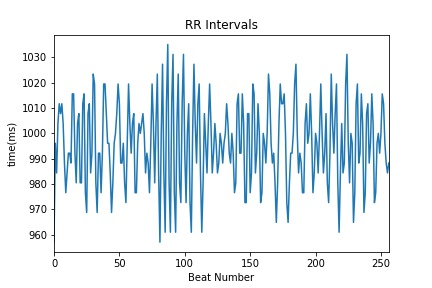
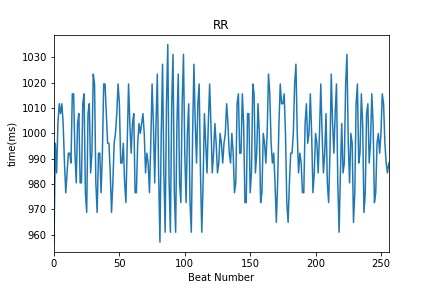
Exporting figures, including r waves astrix marked ones

diff --git a/QRS_Detector.py b/QRS_Detector.py
@@ -11,18 +11,18 @@ method to compute the threshold needed for detection.
 
 TIPS:
     - The sampling rate of this ECG signal is 256 Hz.
-    - N should be set approximately the same as the widest possible QRS
+    - N (win_size) should be set approximately the same as the widest possible QRS
 complex
-    - 
 """
 
-def qrs_detect(raw_signal, win_size=15):
+def qrs_detect(raw_signal, win_size=15, save=False,
+               enable_noise_filter=True, plotlimit=2000):
     """
 
     Parameters
     ----------
     raw_signal : TYPE
-        DESCRIPTION.
+
     win_size : TYPE
         the moving average window size N.
 
@@ -33,45 +33,55 @@ def qrs_detect(raw_signal, win_size=15):
 
     """
     raw_signal = np.array(raw_signal)
-    noise_filtered_signal = remove_noise(raw_signal)
+    if enable_noise_filter:
+        noise_filtered_signal = remove_noise(raw_signal)
+        
+        plot_before_after(raw_signal, noise_filtered_signal,
+                          title = "Before_After_Filter",
+                          save=save, limit=plotlimit)
     
-    if(len(raw_signal) == 2000) :
-        end_time = raw_signal.shape[0]-1/256
-        t = np.linspace(0, end_time , raw_signal.shape[0])
-        plt.subplot(211)
-        plt.plot(t, raw_signal)
-        plt.subplot(212)
-        plt.plot(t, noise_filtered_signal)
-        plt.savefig("Before_After_Filter.jpg")
-        plt.show()
-    
-    diff = differentiate(noise_filtered_signal)
-    plot(diff, title="Differentiated Signal")
-    
+        diff = differentiate(noise_filtered_signal)
+    else:
+        diff = differentiate(raw_signal)
+        
+    plot(diff, title="Differentiated Signal", limit=plotlimit)
+
     sqrd = square(diff)
-    plot(sqrd, title="Squared Signal")
+    plot(sqrd, title="Squared Signal", limit=plotlimit)
 
     smoothed = smooth(sqrd, win_size)
-    plot(smoothed, title="Smoothed Signal")
+    plot(smoothed, title="Smoothed Signal", limit=plotlimit)
 
     thresholded, threshold1 = threshold(smoothed)
-    plot(thresholded, title="Thresholded Signal")
+    plot(thresholded, title="Thresholded Signal", limit=plotlimit)
 
     rr_intervals = rr_define(thresholded)
-    #plot(rr_intervals, title="RR-Intervals", sampling_rate=1)
+    plot(rr_intervals*1000, title="RR", sampling_rate=1,
+         xlabel='Beat Number', ylabel='time(ms)',
+         limit=rr_intervals.shape[0])
     
-    if(len(raw_signal) > 10000) :
-        end_time = rr_intervals.shape[0]-1
-        t = np.linspace(0, end_time , rr_intervals.shape[0])
-        plt.plot(t, rr_intervals*1000)
-        plt.xlabel('Beat Number')
-        plt.ylabel('time(ms)')
-        plt.title("RR Intervals")
-        plt.xlim([0, end_time])
-        plt.savefig("RR.jpg")
-        plt.show()
-        
+    r_markers = create_markers(rr_define(thresholded[:plotlimit]))
+    final_figure_title = "DetectedR_" + str(win_size)
+    if not enable_noise_filter:
+        final_figure_title = "Unfiltered_" + str(win_size)
+    plot(thresholded, title = final_figure_title , sampling_rate=256,
+         xlabel="t", ylabel="x(t)", markers=r_markers, save=save,
+         limit=plotlimit)
+
     return rr_intervals
+
+def create_markers(rr_intervals, sampling_rate=256):
+
+    r_markers = rr_intervals*256
+    first_might_miss_beat = np.argmax(r_markers)
+    if first_might_miss_beat not in r_markers:
+        tmp = np.zeros((r_markers.shape[0]+1,))
+        tmp[0] = first_might_miss_beat
+        tmp[1:] = r_markers
+        r_markers = tmp
+    for i in range(1, len(r_markers)):
+        r_markers[i] = r_markers[i] + r_markers[i-1]
+    return r_markers
 
 def remove_noise(sig):
     filtered_signal = notch_filter(sig, 50.0)
@@ -110,17 +120,8 @@ def differentiate(sig):
         (-t_0 - (2*t_1) + (2*t_3) + (t_4))
     return diff_signal
 
-# def differentiate2(sig):
-#     diff_signal = np.zeros(sig.shape)
-#     for i in range(2, len(sig)-2):
-#         diff_signal[i] = (1/8) * (-sig[i-2] - 2*sig[i-1] + 2*sig[i+1] + sig[i+2])
-#     return diff_signal
-
-
 def square(sig):
     return np.square(sig)
-
-
 
 def smooth(sig, win_size=5):
     # smooth the squared signal using a moving average window
@@ -134,14 +135,14 @@ def smooth(sig, win_size=5):
         # print("sig %s ...... smoothed_signal %s" % (sig[i], smoothed_signal[i]))
     return smoothed_signal
 
-def threshold(sig):
-    threshold = np.average(sig)*1.5
+def threshold(sig, avg_mult=1.5):
+    threshold = np.average(sig)*avg_mult
     # threshold = np.max(sig)*0.7
     thresholded = sig.copy()
     thresholded[thresholded > threshold] = threshold
     return thresholded, threshold
 
-def rr_define(sig, sampling_rate=256):
+def rr_define(sig, sampling_rate=256, discard_less_than=100):
     # peak_indices = np.argwhere(sig == np.amax(sig))
     
     rr_intervals = []
@@ -150,7 +151,7 @@ def rr_define(sig, sampling_rate=256):
 
     for v in sig:
         if v == peak_value:
-            if current_interval <= 100:
+            if current_interval <= discard_less_than:
                 # print("SAME" + str(len(rr_intervals)))
                 current_interval += 1
                 continue
@@ -161,22 +162,56 @@ def rr_define(sig, sampling_rate=256):
     rr_intervals = np.array(rr_intervals)/sampling_rate
     return rr_intervals
 
-def plot(sig, title = "Plot of CT signal", sampling_rate = 256):
-    end_time = sig.shape[0]-1/sampling_rate
-    t = np.linspace(0, end_time , sig.shape[0])
-    plt.plot(t, sig)
-    plt.xlabel('t')
-    plt.ylabel('x(t)')
+def plot(sig, title = "Plot of CT signal", sampling_rate=256,
+         xlabel="t", ylabel="x(t)", markers=None, save=False,
+         limit=2000):
+    draw_sig=sig[:limit]
+    end_time = draw_sig.shape[0]-1/sampling_rate
+    t = np.linspace(0, end_time , draw_sig.shape[0])
+    if markers is not None:
+        markers_amp = np.ones(markers.shape)*np.max(draw_sig)
+        plt.plot(markers, markers_amp, marker="*",
+                 linestyle=' ', color='r', label='R-Waves')
+    plt.plot(t, draw_sig)
+    plt.xlabel(xlabel)
+    plt.ylabel(ylabel)
     plt.title(title)
-    plt.xlim([0, end_time])
-    #plt.savefig(title+".jpg")
+    plt.xlim([0, end_time])  
+    if save:
+        plt.savefig(title + ".jpg", progressive=True)
     plt.show()
-    
-
+        
+        
+def plot_before_after(before_sig, after_sig,
+                      title = "Before & After of CT signal",
+                      sampling_rate=256,
+                      save=False, limit=2000):
+    draw_before_sig = before_sig[:limit]
+    draw_after_sig = after_sig[:limit]
+    end_time = draw_before_sig.shape[0]-1/sampling_rate
+    t = np.linspace(0, end_time , draw_before_sig.shape[0])
+    plt.subplot(211)
+    plt.plot(t, draw_before_sig)
+    plt.subplot(212)
+    plt.plot(t, draw_after_sig)
+    if save:
+        plt.savefig(title + ".jpg", progressive=True)
+    plt.show()
 
 if __name__ == '__main__':
     raw_signal = pd.read_csv("DataN.txt", header=None)[0][:]
-    rr_graph = qrs_detect(raw_signal, win_size = 25)
+    rr_graph = qrs_detect(raw_signal, win_size = 25,
+                          save=True, enable_noise_filter=False,
+                          plotlimit=2000)
+    rr_graph = qrs_detect(raw_signal, win_size = 5,
+                          save=True, enable_noise_filter=True,
+                          plotlimit=2000)
+    rr_graph = qrs_detect(raw_signal, win_size = 15,
+                          save=True, enable_noise_filter=True,
+                          plotlimit=2000)
+    rr_graph = qrs_detect(raw_signal, win_size = 25,
+                          save=True, enable_noise_filter=True,
+                          plotlimit=2000)
         
     
     
